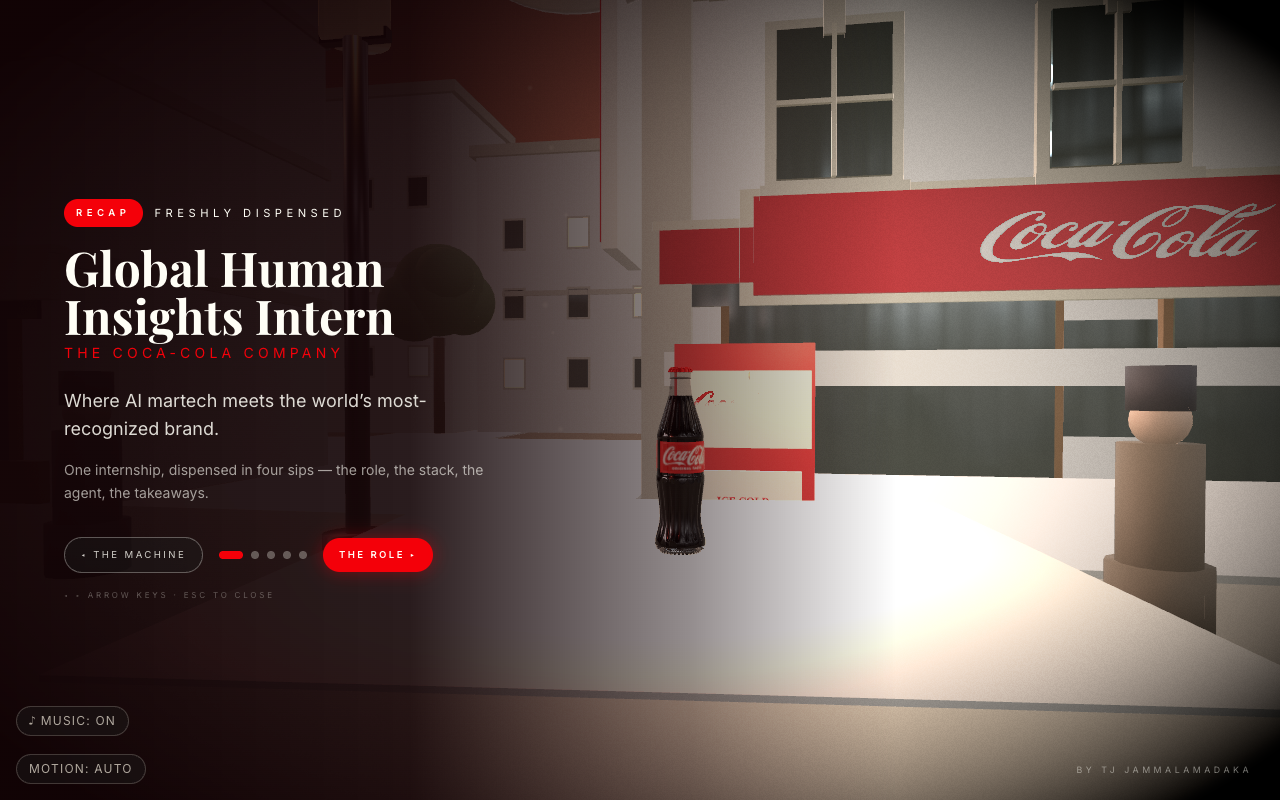
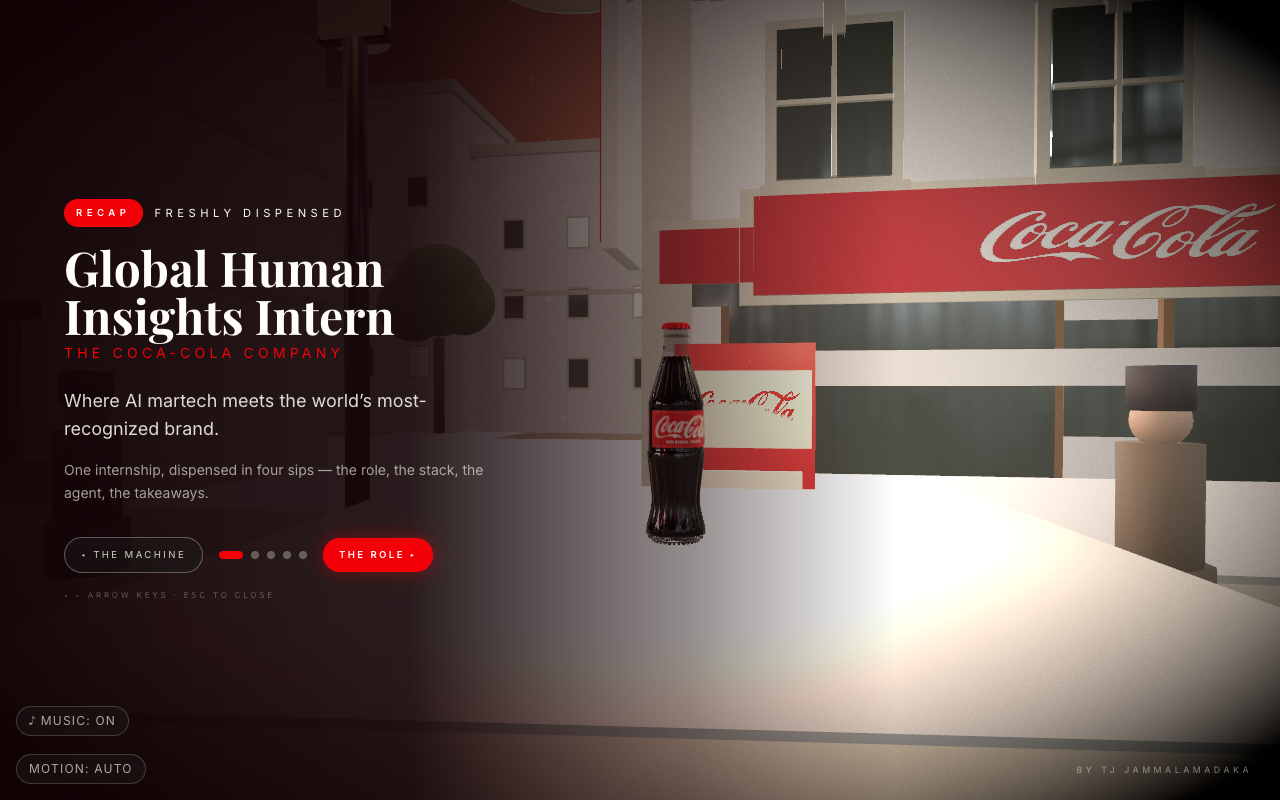
fix(review): wrap hero spin before the closing unwind + intro-pose init
- the closing beat exposed an unbounded spin unwind: spin.current grows
  0.5 rad/s for the whole read, and damping home from the raw angle was
  a strobing multi-rev backspin. Wrapped to a half-turn settle; also
  fixes a second reveal snapping to the stale angle
- Canvas camera now initializes at INTRO_POSE (it dollied BACKWARD to
  the intro hold behind the gate); rig header comment updated
- vending hotspot inert pre-start (latent: a pre-start recap would have
  played to a parked camera)

diff --git a/src/scene/recap/vending-hotspot.tsx b/src/scene/recap/vending-hotspot.tsx
@@ -3,6 +3,7 @@ import { Edges, Html, Billboard } from '@react-three/drei';
 import { useFrame } from '@react-three/fiber';
 import * as THREE from 'three';
 import { useRecap } from './recap-context';
+import { useExperience } from '../experience-context';
 import { useReducedMotion } from '../../hooks/use-reduced-motion';
 
 // Invisible click proxy wrapping the diorama's vending machine. Raycasting one
@@ -82,6 +83,7 @@ function MachineBeacon() {
 
 export function VendingHotspot() {
   const { phase, activate } = useRecap();
+  const { started } = useExperience();
   const [hovered, setHovered] = useState(false);
   const reduced = useReducedMotion();
 
@@ -94,8 +96,11 @@ export function VendingHotspot() {
     };
   }, [hovered]);
 
-  // Only interactive before the sequence begins.
-  if (phase !== 'idle') return null;
+  // Only interactive once the experience has begun (the gate blocks pointer
+  // events today, but the pose ternary pins the camera at INTRO_POSE while
+  // !started — a pre-start recap would play to a parked wide shot) and
+  // before the sequence begins.
+  if (!started || phase !== 'idle') return null;
 
   return (
     <>

diff --git a/src/scene/recap/recap-dispenser.tsx b/src/scene/recap/recap-dispenser.tsx
@@ -88,7 +88,14 @@ export function RecapDispenser() {
         bottle.rotation.y = spin.current;
         bottle.position.y += Math.sin(spin.current * 1.6) * 0.025;
       } else {
+        // Wrap to [-π, π] FIRST: spin accumulates unbounded during reveal,
+        // and damping home from the raw angle is a strobing multi-rev
+        // backspin (k × accumulated radians per second on the first frames
+        // of the closing return). Wrapped, it's a ≤ half-turn settle.
+        bottle.rotation.y =
+          THREE.MathUtils.euclideanModulo(bottle.rotation.y + Math.PI, Math.PI * 2) - Math.PI;
         bottle.rotation.y += (0 - bottle.rotation.y) * (1 - Math.exp(-k * dt));
+        spin.current = bottle.rotation.y;
       }
     }
   });

diff --git a/src/scene/camera-rig.tsx b/src/scene/camera-rig.tsx
@@ -9,8 +9,9 @@ import { useRecap } from './recap/recap-context';
 
 // Camera rig — ALL camera motion lives here. View-driven (no scroll): the camera
 // flies between the home scene (machine view) and each chapter "stage" as the
-// nav view changes. Before PRESS START it holds the home pose; clicking the gate
-// simply removes it (no entry dolly animation needed).
+// nav view changes. Before PRESS START it holds INTRO_POSE (the target pose
+// pulled back); clicking the gate releases the rig toward the real pose — the
+// "arrival breath".
 //
 // Two overrides layer on top of the nav poses:
 //   - recap focus: while the vending-machine recap is running, the camera holds

diff --git a/src/scene/scene-root.tsx b/src/scene/scene-root.tsx
@@ -22,7 +22,10 @@ export function SceneRoot({ children }: Props) {
 
   return (
     <Canvas
-      camera={{ position: [-8, 7, -34], fov: 55, near: 0.5, far: 400 }}
+      // Initial position = the rig's INTRO_POSE (camera-rig.tsx), so the
+      // pre-start hold is a true hold — initializing at the home pose made
+      // the rig dolly BACKWARD to the intro pose behind the gate on load.
+      camera={{ position: [-9, 7.8, -37.8], fov: 55, near: 0.5, far: 400 }}
       dpr={[1, 1.5]}
       gl={{ antialias: false, alpha: true, powerPreference: 'high-performance' }}
       // ACES filmic + a touch under 1.0 exposure recovers the blown cream

diff --git a/plans/reports/code-review-260609-2325-level-up-9.md b/plans/reports/code-review-260609-2325-level-up-9.md
@@ -1,0 +1,107 @@
+# Code Review — polish-pass-9 vs polish-pass-8 (level-up 9)
+
+Date: 2026-06-09 · Reviewer: code-reviewer agent
+Scope: `git diff polish-pass-8...polish-pass-9 -- src index.html public/llms.txt` (4 commits, ~117 LOC added)
+Files: camera-rig.tsx, recap-context.tsx, recap-dispenser.tsx, recap-panel.tsx, index.html, public/llms.txt
+Pre-verified by requester (not re-litigated): 26/26 behavioral checks, llms.txt serves, tsc clean, chapter drift composition.
+
+## Overall Assessment
+
+Tight, well-commented diff. Phase machine extension is sound (all interleavings checked below), camera refactor preserves home-view behavior bit-for-bit, metadata is syntactically valid and factually accurate against the codebase. One real animation bug shipped with the closing beat — newly *visible*, partly pre-existing.
+
+## Critical Issues
+
+None (no security/data-loss/breaking-change findings).
+
+## High Priority
+
+### H1. Closing beat exposes an unbounded hero-spin unwind — visible backspin blur on every Done
+`src/scene/recap/recap-dispenser.tsx:86-92`
+
+During `reveal`, `spin.current += dt * 0.5` accumulates without bound (0.5 rad/s — ~9.5 full turns after 2 min of reading). On `close()` the else branch damps `bottle.rotation.y` from the *full accumulated angle* to 0 at k=5.5:
+
+```ts
+bottle.rotation.y += (0 - bottle.rotation.y) * (1 - Math.exp(-k * dt));
+```
+
+Initial angular velocity = k × angle. After a 2-min read: ~330 rad/s (~52 rev/s); even a quick 20 s skim gives ~8.7 rev/s. At 60 fps the per-frame delta exceeds π, so the bottle strobes/aliases while still at hero scale (scale only decays to ~58% in the first 100 ms — the bottle is fully visible during the worst of it). Pass-8 never showed this: `reset()` jumped straight to `idle` and the group unmounted the same frame. The closing beat is the first time this code path renders.
+
+Same root cause, pre-existing sibling bug: `spin.current` is never reset, so a *second* activation's reveal snaps `rotation.y` from 0 to the stale accumulated angle on its first frame (label flips discontinuously the instant the bottle starts floating to hero).
+
+**Minimal fix** (handles both): wrap to the nearest turn and keep `spin` synced in the else branch:
+
+```ts
+} else {
+  // Unwind from the nearest turn, not every accumulated hero rotation,
+  // and keep spin synced so the next reveal resumes instead of snapping.
+  bottle.rotation.y =
+    THREE.MathUtils.euclideanModulo(bottle.rotation.y + Math.PI, Math.PI * 2) - Math.PI;
+  bottle.rotation.y += (0 - bottle.rotation.y) * (1 - Math.exp(-k * dt));
+  spin.current = bottle.rotation.y;
+}
+```
+
+Max unwind is then <½ turn — reads as the bottle settling square, which is the intended beat.
+
+## Medium Priority
+
+### M1. Stale contract comment at the top of camera-rig
+`src/scene/camera-rig.tsx:12-13`
+
+> "Before PRESS START it holds the home pose; clicking the gate simply removes it (no entry dolly animation needed)."
+
+Both claims are now false: pre-start holds `INTRO_POSE`, and the entry dolly *is* the point of this commit. This is the file's header contract — first thing the next reader trusts. Update to describe the intro hold + arrival breath.
+
+## Low Priority
+
+### L1. Canvas initial camera no longer matches the pre-start target — slow backward drift behind the gate
+`src/scene/scene-root.tsx:25` (`camera={{ position: [-8, 7, -34], ... }}` = `POSES.machine.pos`)
+
+With the pre-start target now `INTRO_POSE` ([-9, 7.8, -37.8]), a non-reduced visitor sees the camera dolly *backward* ~4 units over ~3.2 s behind the gate scrim on load, then forward again on Press Start. Subtle and arguably harmless, but the comment says "hold". One-value fix: initialize the Canvas camera at the intro pose so the gate frame is static and the breath only ever plays forward. (Reduced motion is unaffected — useFrame snaps before first paint, no flash.)
+
+### L2. JSON-LD `worksFor` — defensible now, will go stale
+`index.html:52`
+
+`worksFor` asserts *current* employment. It is consistent with the site's present-tense copy (jobTitle "Global Human Insights Intern", "I'm developing an AI agent…"), so it's defensible today. When the internship ends, switch to `alumniOf` (schema.org has no past-tense `worksFor`). Syntax validated: parses clean, `@graph` [Person, WebSite], sameAs/url match `portfolio-content.ts` and the canonical URL. Optional (skip per YAGNI): `@id` cross-link between Person and WebSite.
+
+### L3. VendingHotspot has no `started` guard — currently unreachable, latent only
+`src/scene/recap/vending-hotspot.tsx:83-116`
+
+Verified unreachable pre-start: the gate is `fixed inset-0 z-50` with `pointerEvents: 'auto'` until `started` (start-gate.tsx:84-90), so the canvas never raycasts; the keyboard activate path (chapter-overlay.tsx:25) returns null pre-start. But if the gate ever becomes pointer-transparent, a pre-start recap would run with the camera pinned at `INTRO_POSE` (the `!isStarted` branch wins over `recapActive` in camera-rig.tsx:157-161) — coin/bottle animating half-off-frame. Not worth a guard today (YAGNI); noting so the coupling is on record.
+
+## Edge Cases Scouted — Verified OK
+
+- **Pre-start REDUCED**: snap to INTRO_POSE on frame 1 (useFrame runs before paint — no flash), snap to `POSES[view]` on start. Instant transitions are correct reduced-motion semantics; gate fade is also disabled there. Acceptable.
+- **applyIdleDrift module-vector mutation**: safe — single CameraRig instance, `_targetPos/_targetLook.set()` precedes drift every frame, single-threaded; no reentrancy.
+- **Drift mid-flight to a chapter pose**: the ≤0.47 rad/s sinusoid is low-passed by the 3.2 s damp — curved approach, no wobble. Machine-view drift is numerically identical to pass-8 (seed 0 reproduces old phases; pos.y amp 0.225 vs 0.22 — immaterial).
+- **Done during closing**: impossible — pager unmounts (`open = phase === 'reveal'`, recap-panel.tsx:32, 137).
+- **activate() during closing**: triple-guarded — idle-only setter (recap-context.tsx:58), hotspot null unless idle (vending-hotspot.tsx:98), DOM prompt idle-only (chapter-overlay.tsx:80).
+- **ESC during closing**: capture handler stays mounted (`phase !== 'idle'`), reset → effect cleanup clears the closing timer (recap-dispenser.tsx:48), dispenser returns null → bottle vanishes mid-return. Documented intent ("escape means NOW"); acceptable. ESC racing the timer: both write 'idle', idempotent.
+- **SFX on closing**: silent — effect only branches on 'coin'/'dispense' (recap-dispenser.tsx:53-56).
+- **Arrow/1-4 keys during closing**: swallowed as no-ops (open=false) — correct; prevents NavigationProvider flying the camera mid-return.
+- **LiveAnnouncer during closing**: falls to home message while camera still at RECAP_POSE — *identical announcement timing to pass-8* (reset fired the same message at the same click; closing→idle produces no second change, so no re-announce). Not a regression; no flag.
+- **Hash/back-button during closing**: view≠machine effect resets to idle (recap-context.tsx:51-53) — same as pass-8's reveal behavior.
+- **Tuple annotation** `['dispense'|'reveal'|'idle', number]`: sound — literal members ⊂ RecapPhase, contextual typing applies; `ms` computed-then-discarded under `reduced` is fine.
+- **llms.txt accuracy** — all claims verified against source: chapter labels (section-registry.tsx:15-20), hash routes (navigation-context.tsx:21, 40-43), tools incl. "Internal Tooling" (portfolio-content.ts:27-58), takeaways = `learnings` paraphrase, contact links/email match, repo URL matches `origin`, tailwindcss + @react-three/postprocessing in package.json, **meshopt confirmed in both shipped GLB binaries** (EXT_meshopt_compression + quantization markers). robots.txt does not block it.
+
+## Positive Observations
+
+- The closing phase reuses the useFrame defaults instead of adding a parallel animation path — the timer is genuinely the only new logic. Good KISS.
+- DRIFT_SEED.machine = 0 preserving the exact pass-8 phases is a careful refactor; the seed*2 on look.x keeps chapters incommensurate.
+- ESC-instant vs Done-graceful distinction is documented at the state machine, not just at the call sites.
+- The `['dispense'|'reveal'|'idle', number]` annotation keeps the timer table exhaustive-ish and readable.
+
+## Recommended Actions
+
+1. **Fix H1** (spin wrap + sync in the else branch) — the only thing I'd block the PR on; it fires on every Done.
+2. Fix M1 stale header comment in the same commit.
+3. Optional, same PR or never: L1 Canvas init pose; L2 revisit `worksFor` post-internship.
+
+## Metrics
+
+- tsc: clean (pre-verified) · Lint: not run (no lint-affecting patterns observed)
+- Behavioral: 26/26 pre-verified; H1 is an unexercised *rendering* path (phase transitions all pass — the artifact is temporal aliasing, not a state bug)
+
+## Unresolved Questions
+
+- None blocking. H1 reproduction: open recap, stay on reveal ≥20 s, click Done — watch the bottle's first ~200 ms.

diff --git a/plans/260609-2325-level-up-9-cinematic-feel/plan.md b/plans/260609-2325-level-up-9-cinematic-feel/plan.md
@@ -1,0 +1,27 @@
+# Level-up 9: cinematic feel + signature reach
+
+**Status:** ✅ complete — PR pending · **Branch:** `polish-pass-9` (stacked on 8)
+
+## The cut
+
+Engineering is solid after passes 6-8; "amazing" lives in feel. Shipped:
+
+1. **Arrival breath** — pre-start the camera holds the home pose pulled back
+   ~12% (INTRO_POSE); Press Start glides in over ~3 s. Deep links breathe into
+   their chapter pose the same way.
+2. **Per-chapter idle drift** — view-seeded incommensurate sway (half home
+   amplitude). On touch (no mouse parallax) chapters were freeze-frames.
+3. **Recap closing beat** — Done / back-to-machine enters a new `closing`
+   phase: bottle returns to the tray (~0.9 s) before the camera frees. ESC
+   stays instant.
+4. **JSON-LD** Person + WebSite in index.html; **/llms.txt** — text-readable
+   portfolio for AI agents (on brand for an AI-martech internship).
+
+Dropped: procedural birds (no bird nodes found in the GLB; probe errored —
+hard-dropped per timebox rule).
+
+## Verification
+
+26/26 prod-preview checks (Done-button path now exercises `closing`);
+llms.txt 200; role-chapter composition eyeballed with drift. Reviewer pass
+before PR.
